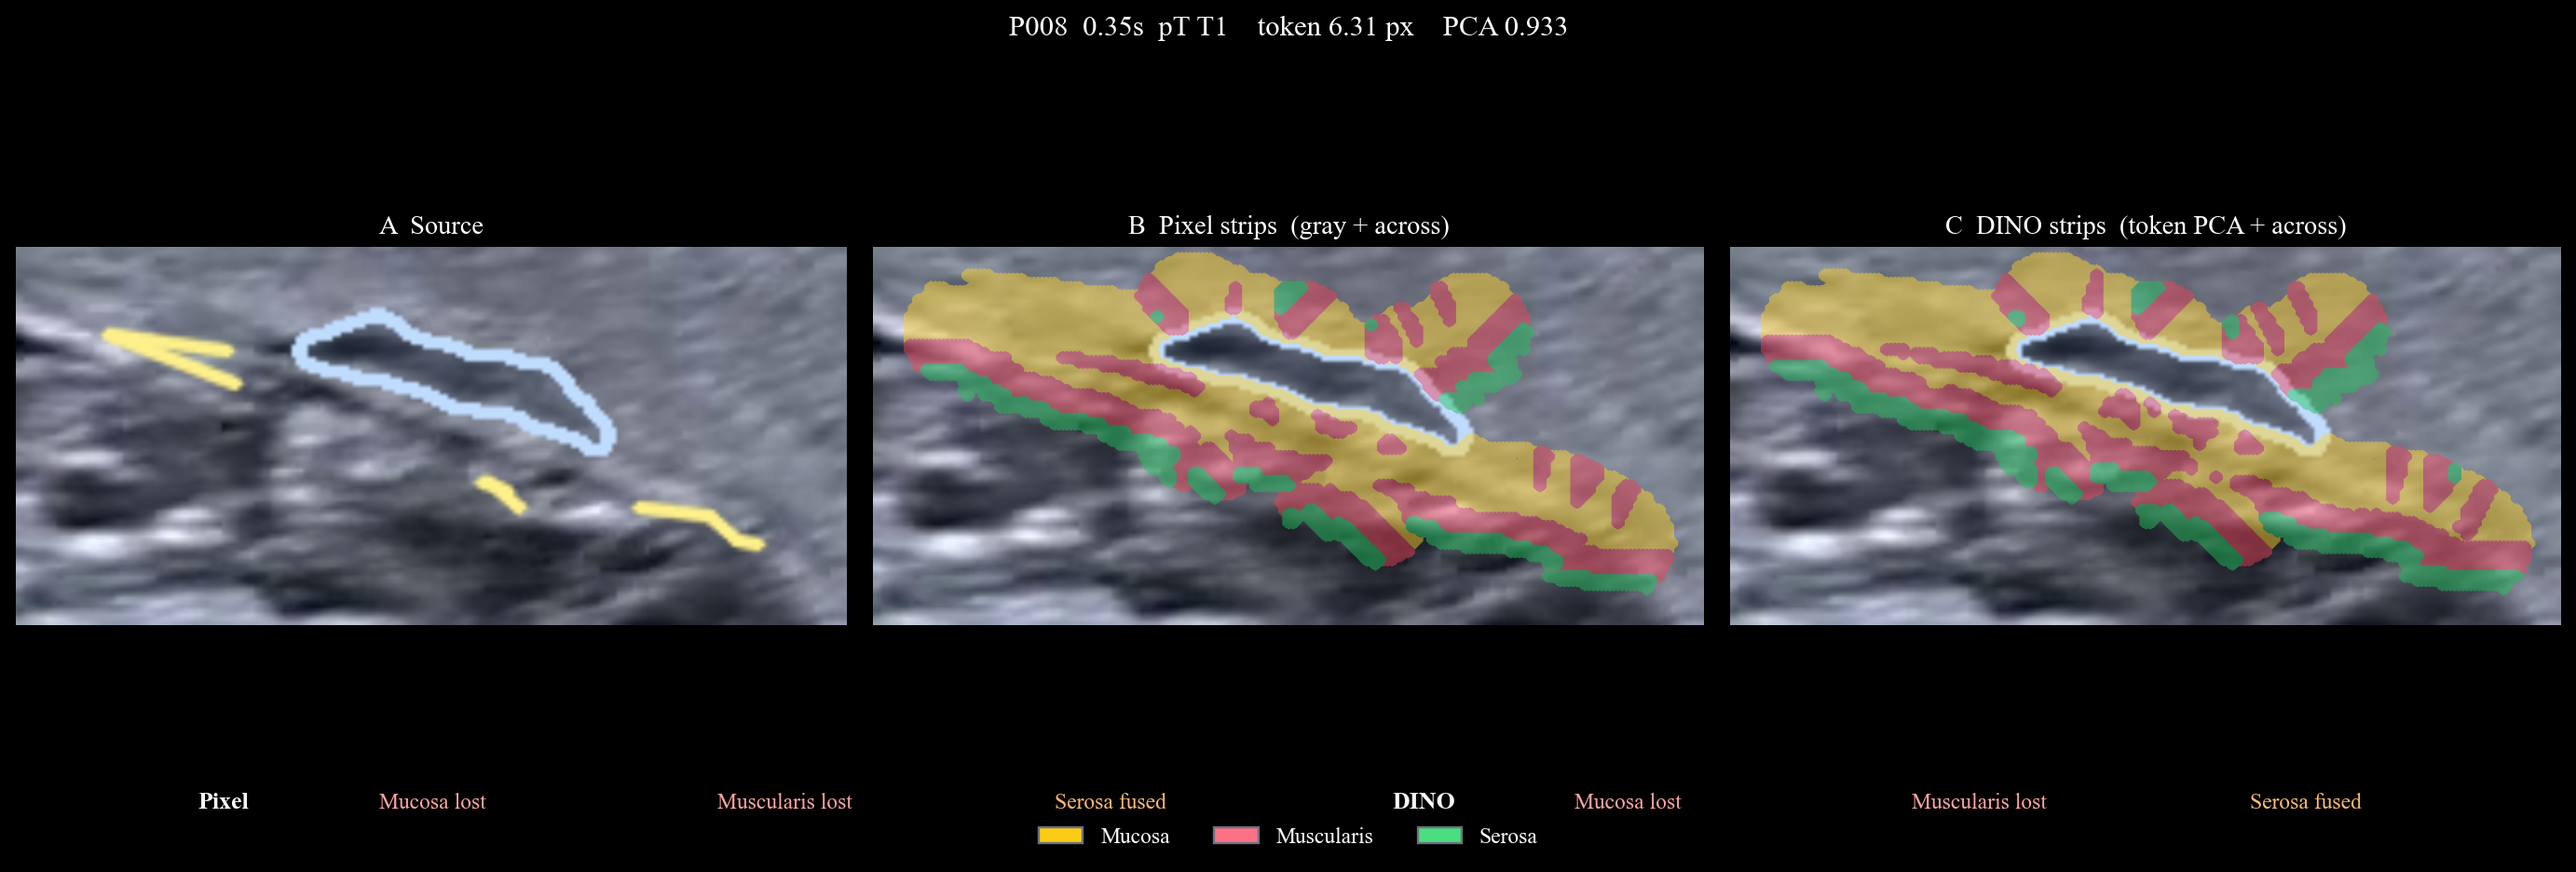
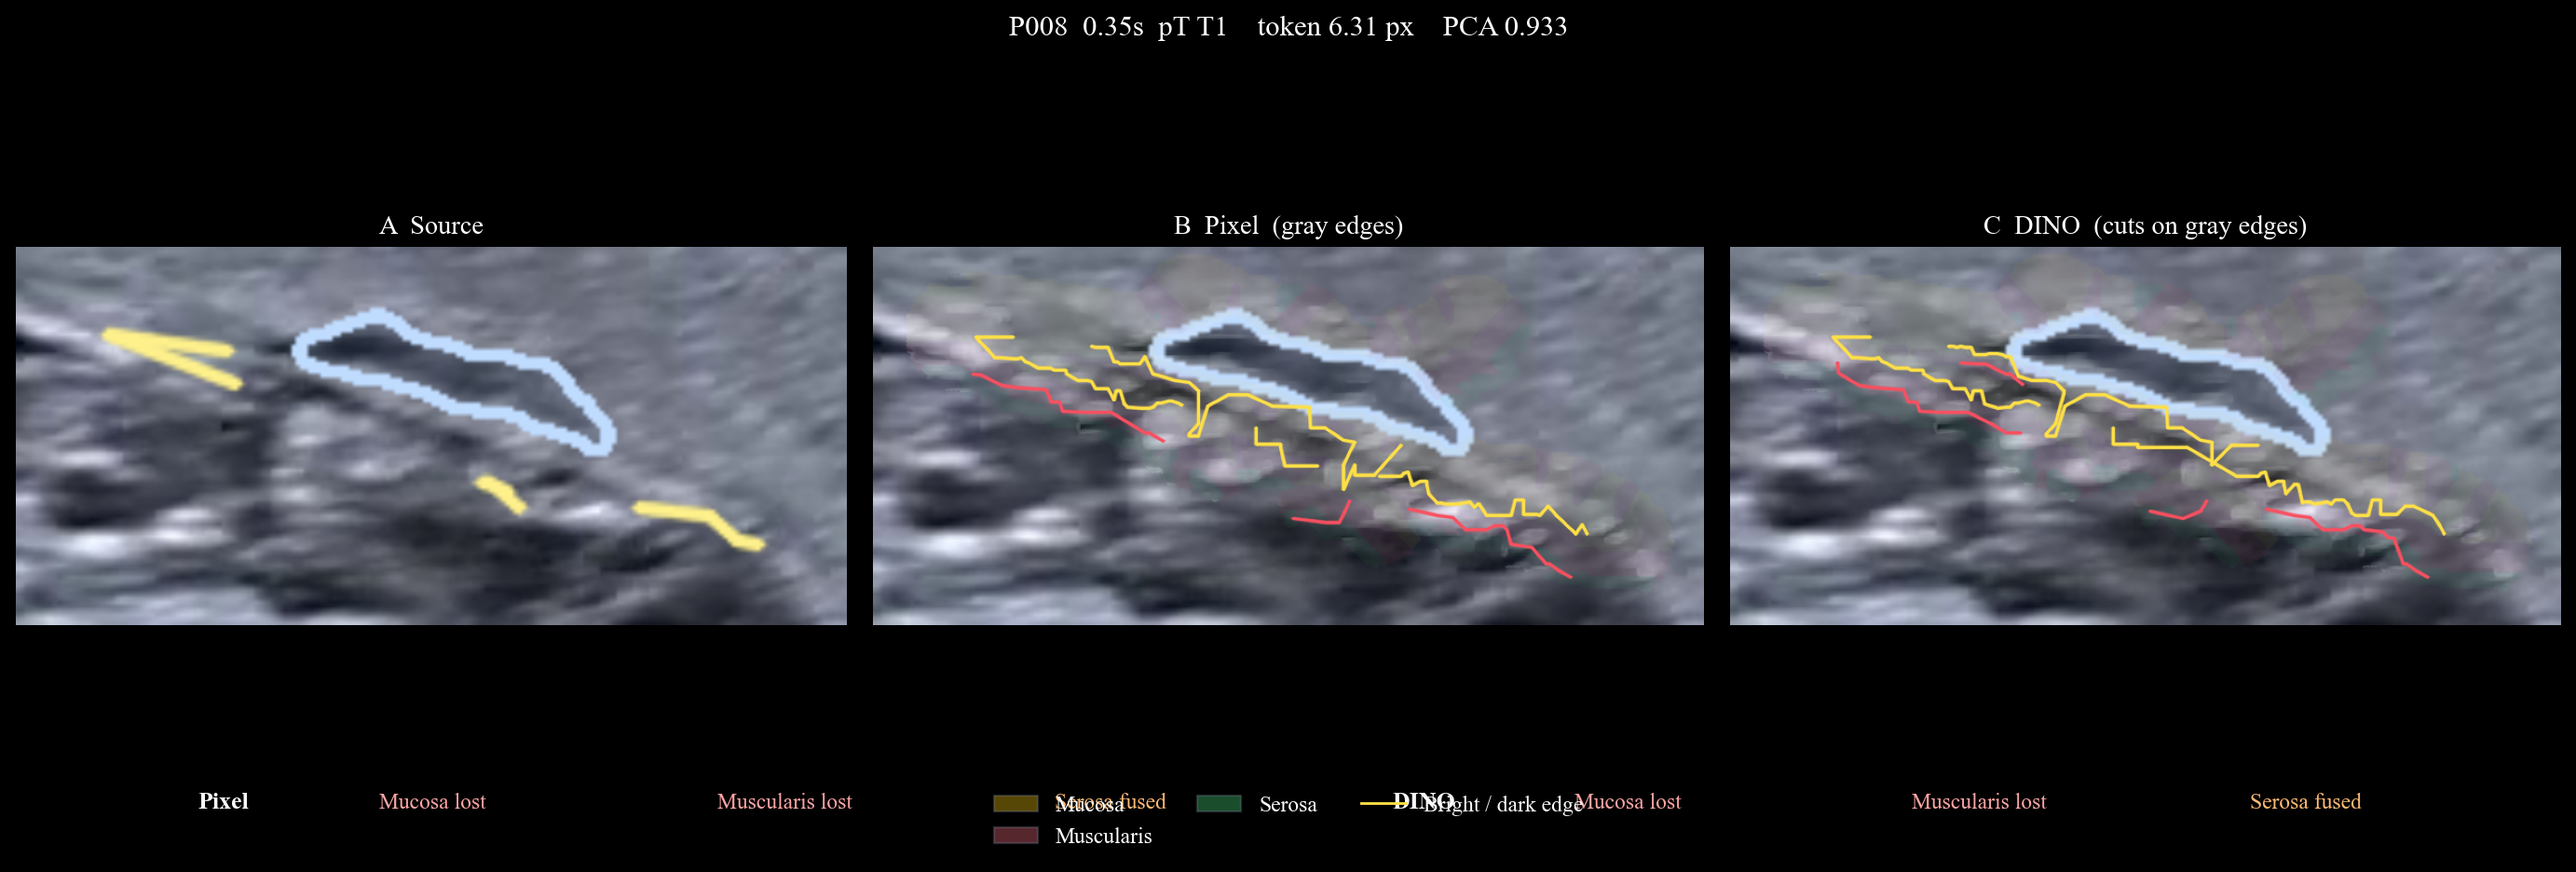
Draw thin lines on real bright-to-dark gray wall edges.
Keep the color wash almost transparent so the echo stays visible, and snap the strip borders to along-heading gray transitions. Does not unlock cT.

diff --git a/scripts/render_wall_pixel_vs_dino_cluster.py b/scripts/render_wall_pixel_vs_dino_cluster.py
@@ -22,6 +22,7 @@ import numpy as np
 ROOT = Path(__file__).resolve().parents[1]
 sys.path.insert(0, str(ROOT / "scripts"))
 
+from matplotlib.lines import Line2D
 from matplotlib.patches import Patch
 
 from render_wall_layer_thin_bands import (  # noqa: E402
@@ -60,7 +61,12 @@ IMAGENET_STD = np.array([0.229, 0.224, 0.225], dtype=np.float32)
 DINO_SIZE = 512
 DINO_LAYERS = (5, 8)
 PCA_DIM = 16
-PIXEL_BLEND = 0.48
+PIXEL_BLEND = 0.055
+EDGE_RGB = {
+    0: (255, 224, 70),
+    1: (248, 80, 96),
+    2: (52, 211, 110),
+}
 
 plt.rcParams.update({
     "font.family": "Times New Roman",
@@ -162,7 +168,7 @@ def pca_reduce(tokens: np.ndarray, fit: np.ndarray, dim: int = PCA_DIM) -> tuple
 
 
 def overlay_cluster_pixels(rgb: np.ndarray, xs, ys, labels, scale: float = 1.0) -> np.ndarray:
-    """Paint the clustered brush pixels. This is the cluster, not a ribbon."""
+    """Very faint strip wash. The gray image must stay readable."""
     out = rgb.astype(np.float32)
     xs = np.asarray(xs, dtype=np.float32)
     ys = np.asarray(ys, dtype=np.float32)
@@ -170,7 +176,7 @@ def overlay_cluster_pixels(rgb: np.ndarray, xs, ys, labels, scale: float = 1.0) 
     h, w = out.shape[:2]
     cover = np.zeros((h, w), dtype=np.float32)
     wash = np.zeros((h, w, 3), dtype=np.float32)
-    radius = max(1, int(round(1.2 * scale)))
+    radius = max(1, int(round(0.7 * scale)))
     for lab, color in LAYER_RGB.items():
         layer = np.zeros((h, w), dtype=np.uint8)
         for x, y, lab_i in zip(xs.tolist(), ys.tolist(), labels.tolist()):
@@ -186,6 +192,46 @@ def overlay_cluster_pixels(rgb: np.ndarray, xs, ys, labels, scale: float = 1.0) 
     alpha = (cover * PIXEL_BLEND)[..., None]
     painted = (1.0 - alpha) * out + alpha * wash
     return np.clip(painted, 0, 255).astype(np.uint8)
+
+
+def overlay_gray_glow(rgb: np.ndarray, gray: np.ndarray, xs, ys, scale: float) -> np.ndarray:
+    """Faint highlight on real gray transitions inside the brush."""
+    if gray.ndim != 2 or gray.shape[:2] != rgb.shape[:2]:
+        return rgb
+    gx = cv2.Sobel(gray, cv2.CV_32F, 1, 0, ksize=3)
+    gy = cv2.Sobel(gray, cv2.CV_32F, 0, 1, ksize=3)
+    mag = cv2.magnitude(gx, gy)
+    brush = np.zeros(gray.shape, dtype=np.uint8)
+    radius = max(1, int(round(1.1 * scale)))
+    for x, y in zip(np.asarray(xs).tolist(), np.asarray(ys).tolist()):
+        ix, iy = int(round(float(x))), int(round(float(y)))
+        if 0 <= ix < gray.shape[1] and 0 <= iy < gray.shape[0]:
+            cv2.circle(brush, (ix, iy), radius, 255, -1)
+    if not brush.any():
+        return rgb
+    local = mag[brush > 0]
+    thr = float(np.percentile(local, 72)) if len(local) else 20.0
+    glow = np.clip((mag - thr) / max(12.0, float(np.percentile(local, 96) - thr)), 0.0, 1.0)
+    glow[brush == 0] = 0.0
+    alpha = (0.16 * glow)[..., None]
+    tint = np.array([248, 250, 252], dtype=np.float32)
+    out = (1.0 - alpha) * rgb.astype(np.float32) + alpha * tint
+    return np.clip(out, 0, 255).astype(np.uint8)
+
+
+def draw_interface_lines(rgb: np.ndarray, interfaces, sx1: float, sy1: float, scale: float) -> np.ndarray:
+    """Very thin edges sitting on bright-to-dark gray boundaries."""
+    out = rgb.copy()
+    thick = 1 if scale < 3 else 2
+    for item in interfaces or []:
+        pts = np.asarray(item.get("points") or [], dtype=np.float32)
+        if len(pts) < 2:
+            continue
+        pts[:, 0] = (pts[:, 0] - sx1) * scale
+        pts[:, 1] = (pts[:, 1] - sy1) * scale
+        color = EDGE_RGB.get(int(item.get("edge", 0)), EDGE_RGB[0])
+        cv2.polylines(out, [np.round(pts).astype(np.int32)], False, color, thick, cv2.LINE_AA)
+    return out
 
 
 def choose_arm(gray, wall, lesion_mask, lumen_center, lesion_poly, cavity, brush, extra=None, method="kmeans1d_gray"):
@@ -257,7 +303,7 @@ def prepare_crop(meta: dict, seg: RoiSegmenter):
     }
 
 
-def paint_arm(rgb, wall, lesion_mask, arm, sx1, sy1, sx2, sy2, scale: int):
+def paint_arm(rgb, gray, arm, sx1, sy1, sx2, sy2, scale: int):
     strip = rgb[sy1:sy2, sx1:sx2]
     panel = cv2.resize(
         strip, (strip.shape[1] * scale, strip.shape[0] * scale), interpolation=cv2.INTER_LINEAR,
@@ -266,7 +312,14 @@ def paint_arm(rgb, wall, lesion_mask, arm, sx1, sy1, sx2, sy2, scale: int):
         return panel
     xs = (np.asarray(arm.xs, dtype=np.float32) - sx1) * scale
     ys = (np.asarray(arm.ys, dtype=np.float32) - sy1) * scale
-    return overlay_cluster_pixels(panel, xs, ys, arm.labels, scale=float(scale))
+    gray_hi = cv2.resize(
+        gray[sy1:sy2, sx1:sx2],
+        (panel.shape[1], panel.shape[0]),
+        interpolation=cv2.INTER_LINEAR,
+    )
+    panel = overlay_cluster_pixels(panel, xs, ys, arm.labels, scale=float(scale))
+    panel = overlay_gray_glow(panel, gray_hi, xs, ys, scale=float(scale))
+    return draw_interface_lines(panel, getattr(arm, "interfaces", None), sx1, sy1, float(scale))
 
 
 def render_case(pack: dict, dino: CorridorDino, out_dir: Path, brush: float) -> dict:
@@ -319,14 +372,14 @@ def render_case(pack: dict, dino: CorridorDino, out_dir: Path, brush: float) -> 
         ((sx2 - sx1) * scale, (sy2 - sy1) * scale),
         interpolation=cv2.INTER_LINEAR,
     )
-    panel_b = paint_arm(overlay_blue(crop_rgb.copy(), crop_mask), wall_crop, crop_mask, pixel, sx1, sy1, sx2, sy2, scale)
-    panel_c = paint_arm(overlay_blue(crop_rgb.copy(), crop_mask), wall_crop, crop_mask, dino_arm, sx1, sy1, sx2, sy2, scale)
+    panel_b = paint_arm(overlay_blue(crop_rgb.copy(), crop_mask), gray, pixel, sx1, sy1, sx2, sy2, scale)
+    panel_c = paint_arm(overlay_blue(crop_rgb.copy(), crop_mask), gray, dino_arm, sx1, sy1, sx2, sy2, scale)
 
     fig, axes = plt.subplots(1, 3, figsize=(16.4, 5.6))
     titles = (
         "A  Source",
-        "B  Pixel strips  (gray + across)",
-        "C  DINO strips  (token PCA + across)",
+        "B  Pixel  (gray edges)",
+        "C  DINO  (cuts on gray edges)",
     )
     for ax, panel, title in zip(axes, (panel_a, panel_b, panel_c), titles):
         ax.imshow(panel)
@@ -341,7 +394,8 @@ def render_case(pack: dict, dino: CorridorDino, out_dir: Path, brush: float) -> 
         fontname="Times New Roman",
         y=0.98,
     )
-    handles = [Patch(facecolor=LAYER_HEX[lab], edgecolor="#6b7280", label=en) for lab, _key, en in LAYER_LEGEND]
+    handles = [Patch(facecolor=LAYER_HEX[lab], edgecolor="#6b7280", label=en, alpha=0.35) for lab, _key, en in LAYER_LEGEND]
+    handles.append(Line2D([0], [0], color="#fde047", lw=1.2, label="Bright / dark edge"))
     fig.legend(
         handles=handles,
         loc="lower center",
@@ -454,7 +508,7 @@ def main() -> int:
                 "created_at": "2026-08-29",
                 "backbone": "lvd1689m",
                 "layers": list(DINO_LAYERS),
-                "note": "Same brush pixels. Gray vs DINO, both assigned as thin heading strips. Not a cT.",
+                "note": "Very faint wash plus thin lines on real gray bright/dark edges. Not a cT.",
                 "cases": rows,
                 "index": index_path,
             },

diff --git a/scripts/wall_lesion_aware_cluster.py b/scripts/wall_lesion_aware_cluster.py
@@ -468,12 +468,20 @@ class ClusterArm:
     labels: list[int] = field(default_factory=list)
     layer_polylines: dict[str, list[list[float]]] = field(default_factory=dict)
     fates: list[dict[str, Any]] = field(default_factory=list)
+    interfaces: list[list[list[float]]] = field(default_factory=list)
 
     def summary(self) -> dict[str, Any]:
         data = asdict(self)
         data.pop("xs", None)
         data.pop("ys", None)
         data.pop("labels", None)
+        slim_if = []
+        for item in data.get("interfaces") or []:
+            pts = item.get("points") if isinstance(item, dict) else item
+            pts = pts or []
+            step = max(1, len(pts) // 24)
+            slim_if.append({"edge": item.get("edge", 0) if isinstance(item, dict) else 0, "points": pts[::step][:30]})
+        data["interfaces"] = slim_if
         slim = []
         for seg in data.get("flanks") or []:
             pts = seg.get("points") or []
@@ -921,6 +929,128 @@ def walk_layer_fate(
     return fates
 
 
+def _smooth1d(values: np.ndarray, radius: int = 2) -> np.ndarray:
+    if len(values) < 3:
+        return values.astype(np.float32)
+    kernel = np.arange(1, 2 * radius + 2, dtype=np.float32)
+    kernel = np.minimum(kernel, kernel[::-1])
+    kernel /= float(kernel.sum())
+    return np.convolve(np.pad(values.astype(np.float32), (radius, radius), mode="edge"), kernel, mode="valid")
+
+
+def cuts_from_labels(across: np.ndarray, labels: np.ndarray, keep: np.ndarray) -> list[float]:
+    cuts = []
+    for left, right in ((0, 1), (1, 2)):
+        a = keep & (labels == left)
+        b = keep & (labels == right)
+        if int(a.sum()) < 6 or int(b.sum()) < 6:
+            continue
+        cuts.append(0.5 * (float(np.median(across[a])) + float(np.median(across[b]))))
+    return cuts
+
+
+def _column_gray_peaks(xs, ys, gray, across, pix: np.ndarray) -> list[dict[str, float]]:
+    if int(pix.sum()) < 5:
+        return []
+    order = np.argsort(across[pix])
+    ac = across[pix][order]
+    gg = gray[pix][order]
+    xx = xs[pix][order].astype(np.float32)
+    yy = ys[pix][order].astype(np.float32)
+    if float(ac[-1] - ac[0]) < 0.12:
+        return []
+    grid = np.linspace(float(ac[0]), float(ac[-1]), max(18, int(round(24.0 * (ac[-1] - ac[0])))))
+    g_i = np.interp(grid, ac, gg)
+    x_i = np.interp(grid, ac, xx)
+    y_i = np.interp(grid, ac, yy)
+    smooth = _smooth1d(g_i, 2)
+    grad = np.gradient(smooth)
+    mag = np.abs(grad)
+    peaks = []
+    for i in range(2, len(mag) - 2):
+        if mag[i] >= mag[i - 1] and mag[i] >= mag[i + 1] and mag[i] >= 5.0:
+            peaks.append({
+                "across": float(grid[i]),
+                "mag": float(mag[i]),
+                "grad": float(grad[i]),
+                "x": float(x_i[i]),
+                "y": float(y_i[i]),
+            })
+    return peaks
+
+
+def _split_interface_runs(points: list[list[float]]) -> list[list[list[float]]]:
+    if len(points) < 3:
+        return []
+    arr = np.asarray(points, dtype=np.float32)
+    for axis in (0, 1):
+        arr[:, axis] = _finite_median_filter(arr[:, axis], 5)
+    runs: list[list[list[float]]] = []
+    run = [arr[0].tolist()]
+    for pt in arr[1:]:
+        prev = np.asarray(run[-1], dtype=np.float32)
+        if float(np.hypot(pt[0] - prev[0], pt[1] - prev[1])) > 14.0:
+            if len(run) >= 4:
+                runs.append(run)
+            run = [pt.tolist()]
+        else:
+            run.append(pt.tolist())
+    if len(run) >= 4:
+        runs.append(run)
+    return runs
+
+
+def trace_gray_interfaces(
+    samples: dict[str, np.ndarray],
+    keep: np.ndarray,
+    prefer_across: list[float] | None = None,
+) -> list[dict[str, Any]]:
+    """Thin bright/dark gray boundaries along the heading, snapped to real gradients."""
+    xs = samples["xs"]
+    ys = samples["ys"]
+    gray = samples["gray"]
+    across = samples["across"]
+    along = samples["along_idx"]
+    groups = merge_along_columns(along, keep, min_pix=6)
+    seeds = [float(v) for v in (prefer_across or []) if np.isfinite(v)]
+    raw: list[list[list[float]]] = [[], []] if len(seeds) < 2 else [[] for _ in seeds]
+    if not raw:
+        raw = [[], []]
+    for group in groups:
+        pix = keep & np.isin(along, group)
+        peaks = _column_gray_peaks(xs, ys, gray, across, pix)
+        if not peaks:
+            continue
+        if seeds:
+            used = set()
+            for slot, seed in enumerate(seeds[: len(raw)]):
+                cand = [
+                    (abs(p["across"] - seed), i, p)
+                    for i, p in enumerate(peaks)
+                    if i not in used and abs(p["across"] - seed) <= 0.38
+                ]
+                if not cand:
+                    continue
+                _d, idx, peak = min(cand, key=lambda item: item[0])
+                used.add(idx)
+                raw[slot].append([peak["x"], peak["y"]])
+            continue
+        falling = [p for p in peaks if p["grad"] < 0]
+        rising = [p for p in peaks if p["grad"] > 0]
+        if falling:
+            fall = max(falling, key=lambda p: p["mag"])
+            raw[0].append([fall["x"], fall["y"]])
+            rising = [p for p in rising if p["across"] > fall["across"] + 0.06]
+        if rising:
+            rise = max(rising, key=lambda p: p["mag"])
+            raw[1].append([rise["x"], rise["y"]])
+    out = []
+    for edge, pts in enumerate(raw):
+        for run in _split_interface_runs(pts):
+            out.append({"edge": edge, "points": run})
+    return out
+
+
 def merge_along_columns(along: np.ndarray, keep: np.ndarray, min_pix: int = STRIP_MIN_COL) -> list[np.ndarray]:
     stations = np.unique(along[keep]) if keep.any() else np.unique(along)
     groups: list[list[int]] = []
@@ -1217,6 +1347,9 @@ def cluster_brush_band(
         samples["xs"], samples["ys"], labels_all, names,
         along=samples["along_idx"], skip=skip,
     )
+    keep_lab = keep & (labels_all >= 0)
+    prefer = cuts_from_labels(samples["across"], labels_all, keep_lab)
+    interfaces = trace_gray_interfaces(samples, keep, prefer_across=prefer or None)
 
     return ClusterArm(
         name=name,
@@ -1236,6 +1369,7 @@ def cluster_brush_band(
         labels=labels_all.tolist(),
         layer_polylines=ridges,
         fates=fates,
+        interfaces=interfaces,
     )
 
 

diff --git a/scripts/test_wall_lesion_aware_cluster.py b/scripts/test_wall_lesion_aware_cluster.py
@@ -125,6 +125,9 @@ def main() -> int:
         order = np.argsort(strip_y[col])
         labs = strip_lab[col][order]
         assert int(np.any(np.diff(labs) < 0)) == 0, labs
+    assert len(strips.interfaces) >= 1, strips.interfaces
+    first_line = np.asarray(strips.interfaces[0]["points"], dtype=np.float32)
+    assert len(first_line) >= 4
     # Spatial-only 1D may slice equally and still miss the gray pattern.
     assert method_hits["kmeans"] and method_hits["gmm"] and method_hits["fcm"], method_hits
     print("wall_lesion_aware_cluster ok", {

diff --git a/docs/PROJECT_CHANGELOG.md b/docs/PROJECT_CHANGELOG.md
@@ -2,6 +2,14 @@
 
 This file records material project changes, their validation, and deployment state. Do not add patient identifiers, credentials, tokens, private URLs, or sensitive clinical data.
 
+## 2026-08-29, Draw thin lines on real bright-to-dark gray edges
+
+- Scope: `scripts/wall_lesion_aware_cluster.py` (`trace_gray_interfaces`), `scripts/render_wall_pixel_vs_dino_cluster.py`.
+- Reason: Colored washes hid the echo. The doctor needs to see the actual gray transition, with only a very thin edge.
+- Key changes: Wash alpha is almost transparent. Lines snap to along-heading gray gradient peaks (bright-to-dark and dark-to-bright). DINO only chooses which peak. Does not unlock cT.
+- Validation: Cluster unit tests plus offline four-case render.
+- Deployment: none (offline figure).
+
 ## 2026-08-29, Prefer thin exclusive strips when clustering wall pixels
 
 - Scope: `scripts/wall_lesion_aware_cluster.py` (`prefer_strips`), `scripts/render_wall_pixel_vs_dino_cluster.py`.
